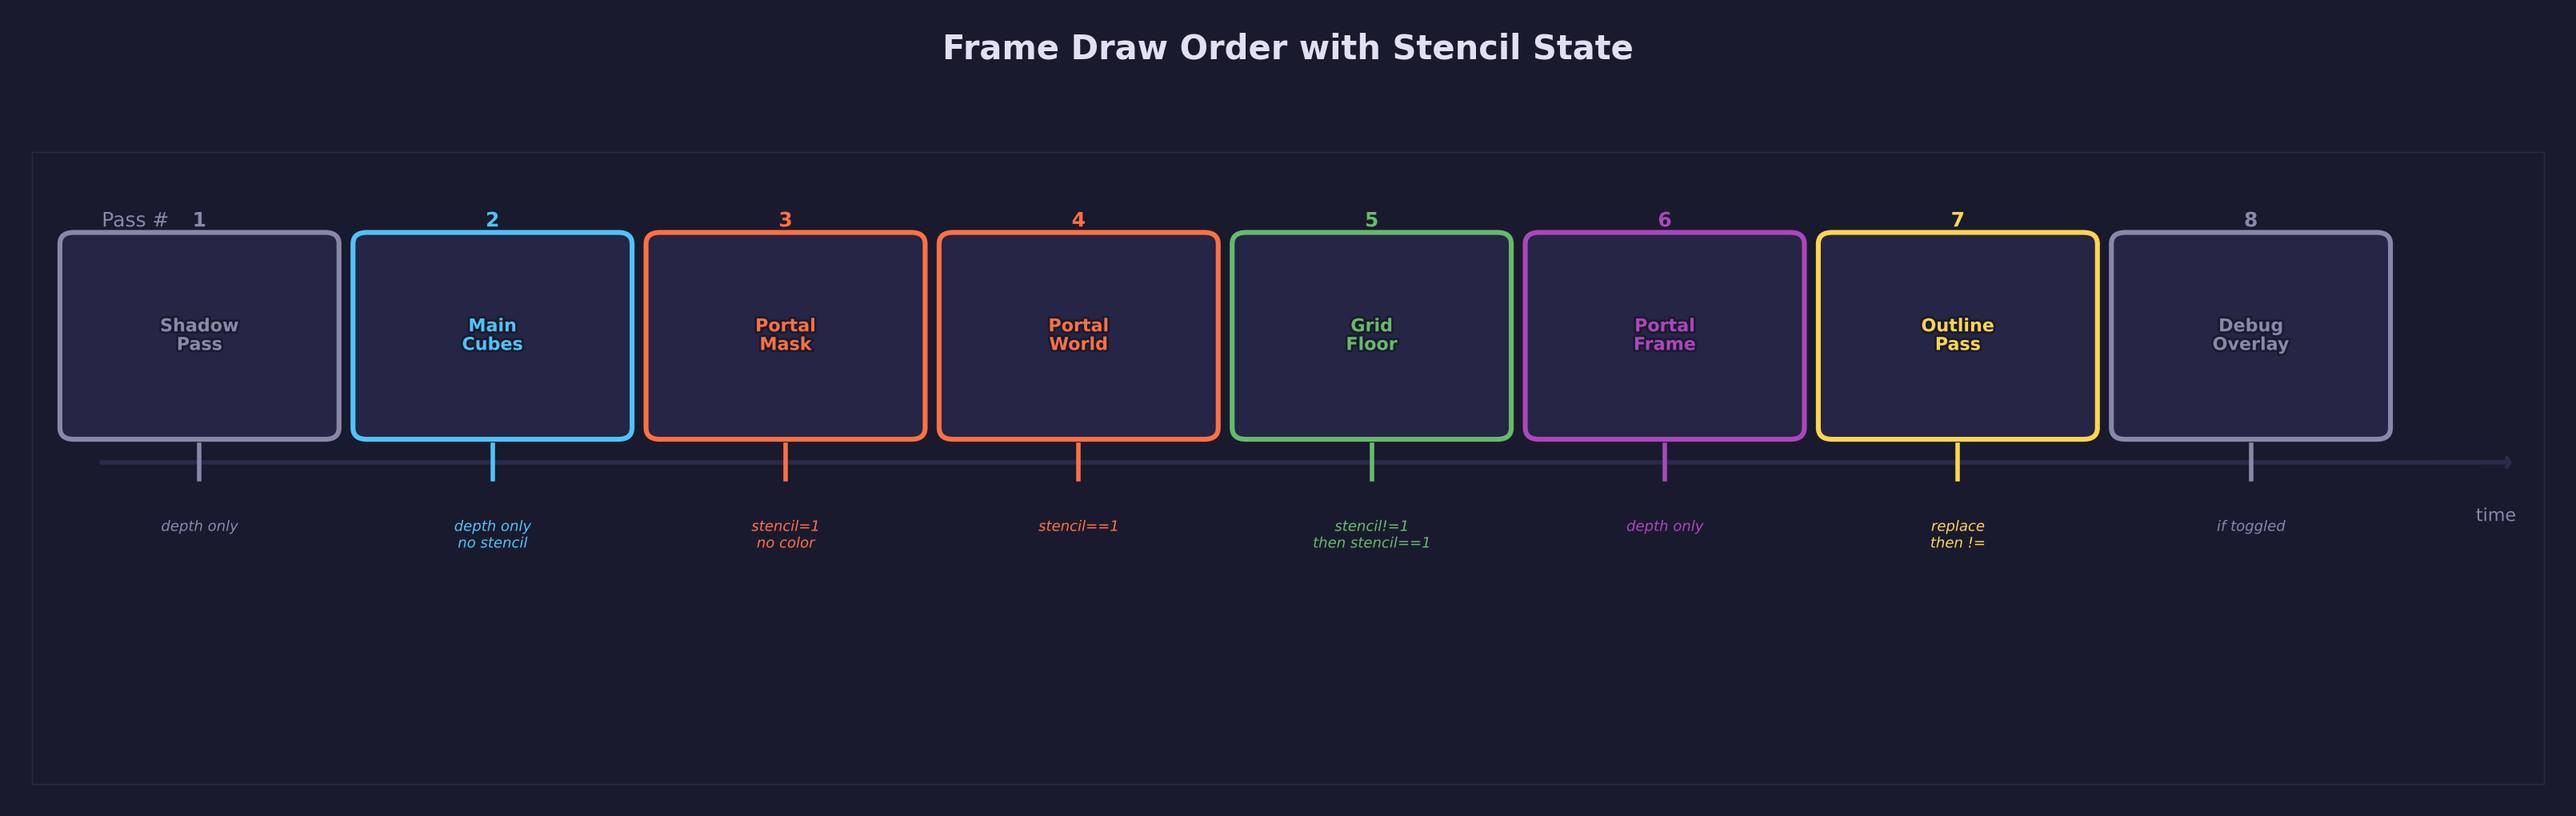
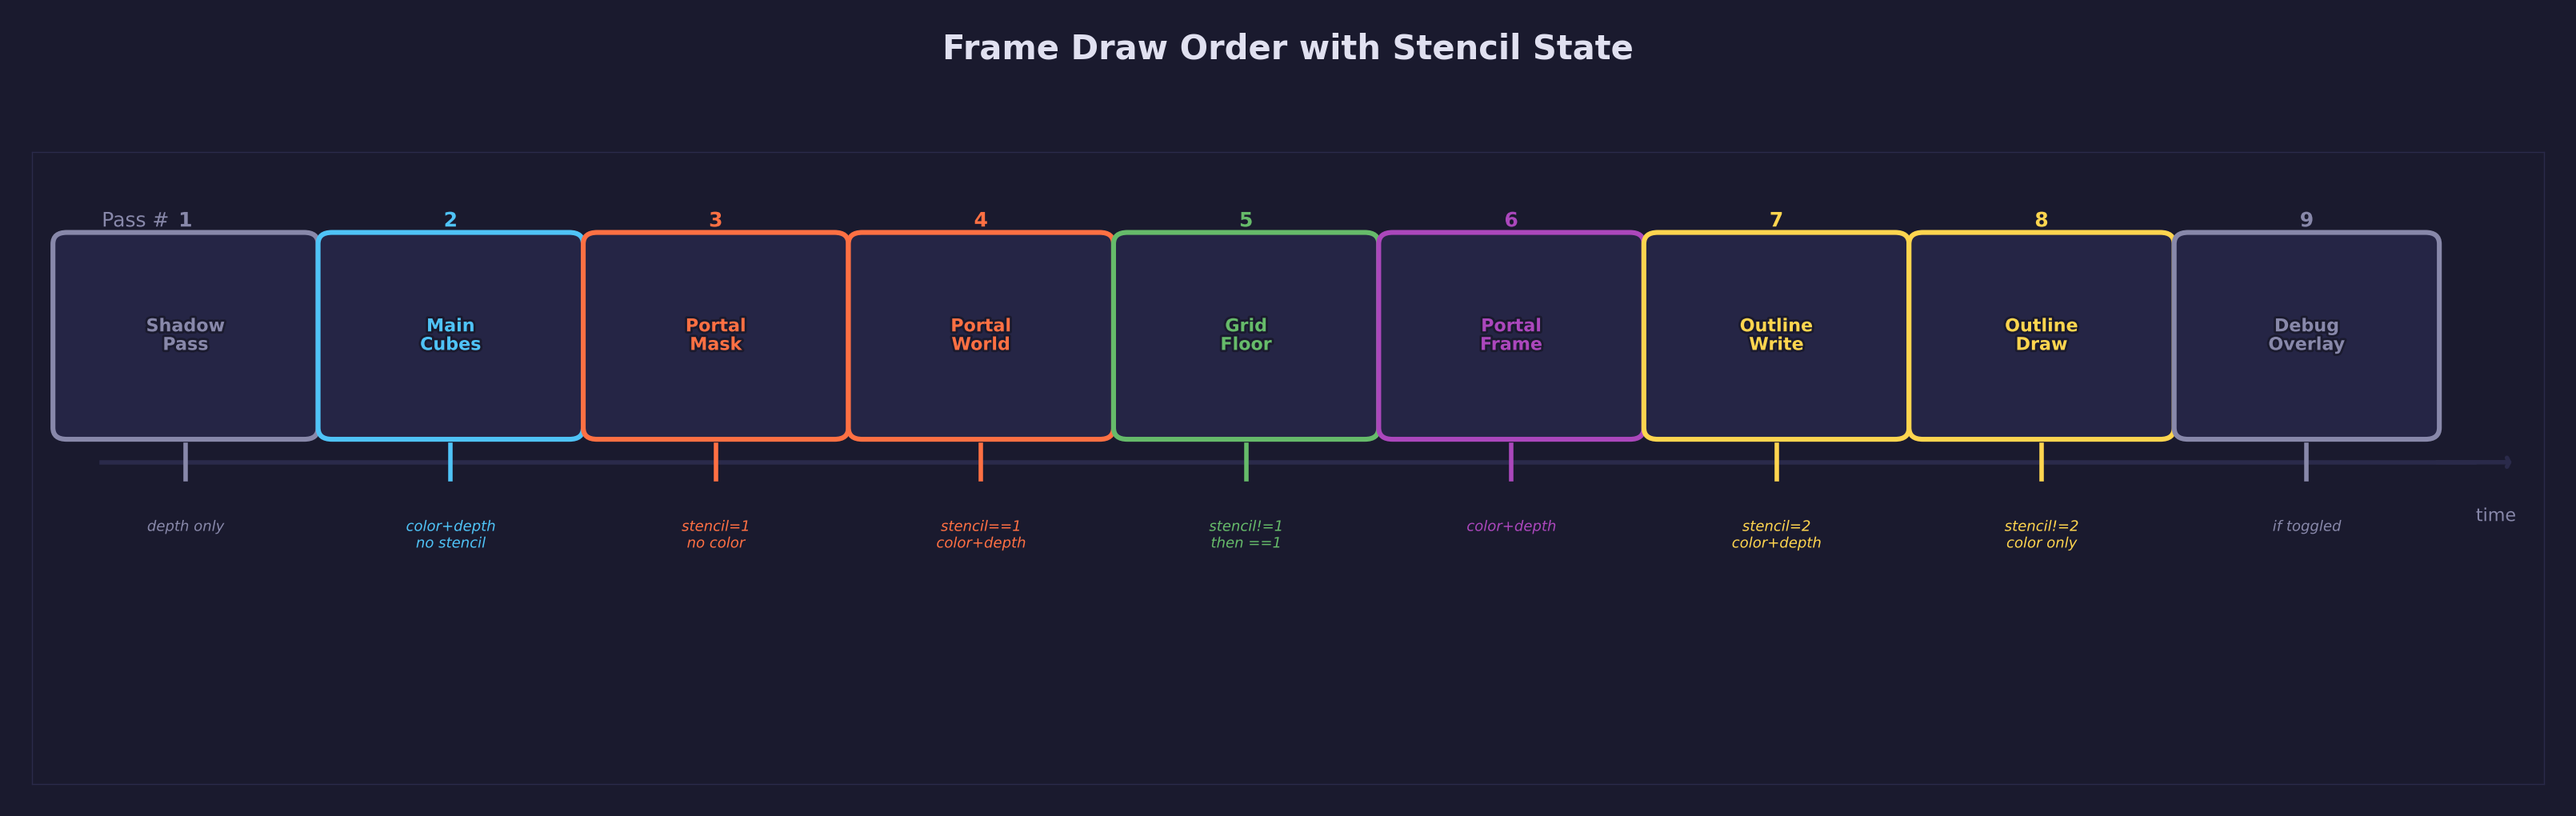
Address PR #179 round 3: diagram labels, README snippets
- Diagram: Split outline into Write+Draw passes, label all passes
  with color/depth/stencil operations accurately, adjust spacing
- README: Add OUTLINE_SCALE define to snippet; add color_write_mask=0
  to mask snippet; remove backslash escaping from enum names; keep
  LaTeX COMPARE_OP split for math block checker compliance

diff --git a/scripts/forge_diagrams/gpu_diagrams.py b/scripts/forge_diagrams/gpu_diagrams.py
@@ -17097,17 +17097,18 @@ def diagram_draw_order_stencil():
     )
 
     passes = [
-        ("Shadow\nPass", STYLE["text_dim"], "depth only", 1.2),
-        ("Main\nCubes", STYLE["accent1"], "depth only\nno stencil", 3.3),
-        ("Portal\nMask", STYLE["accent2"], "stencil=1\nno color", 5.4),
-        ("Portal\nWorld", STYLE["accent2"], "stencil==1", 7.5),
-        ("Grid\nFloor", STYLE["accent3"], "stencil!=1\nthen stencil==1", 9.6),
-        ("Portal\nFrame", STYLE["accent4"], "depth only", 11.7),
-        ("Outline\nPass", STYLE["warn"], "replace\nthen !=", 13.8),
-        ("Debug\nOverlay", STYLE["text_dim"], "if toggled", 15.9),
+        ("Shadow\nPass", STYLE["text_dim"], "depth only", 1.1),
+        ("Main\nCubes", STYLE["accent1"], "color+depth\nno stencil", 3.0),
+        ("Portal\nMask", STYLE["accent2"], "stencil=1\nno color", 4.9),
+        ("Portal\nWorld", STYLE["accent2"], "stencil==1\ncolor+depth", 6.8),
+        ("Grid\nFloor", STYLE["accent3"], "stencil!=1\nthen ==1", 8.7),
+        ("Portal\nFrame", STYLE["accent4"], "color+depth", 10.6),
+        ("Outline\nWrite", STYLE["warn"], "stencil=2\ncolor+depth", 12.5),
+        ("Outline\nDraw", STYLE["warn"], "stencil!=2\ncolor only", 14.4),
+        ("Debug\nOverlay", STYLE["text_dim"], "if toggled", 16.3),
     ]
 
-    box_w = 1.8
+    box_w = 1.7
     box_h = 1.6
     for label, color, annotation, x in passes:
         rect = FancyBboxPatch(

diff --git a/lessons/gpu/34-stencil-testing/README.md b/lessons/gpu/34-stencil-testing/README.md
@@ -90,8 +90,8 @@ $$
 
 where `buffer_value` is the current stencil value at this pixel, `reference`
 is set per draw call, and `COMPARE_OP` is one of the eight comparison
-functions (NEVER, LESS, EQUAL, LESS\_OR\_EQUAL, GREATER, NOT\_EQUAL,
-GREATER\_OR\_EQUAL, ALWAYS).
+functions (NEVER, LESS, EQUAL, LESS_OR_EQUAL, GREATER, NOT_EQUAL,
+GREATER_OR_EQUAL, ALWAYS).
 
 Three outcomes determine what happens to the stencil buffer:
 
@@ -182,6 +182,7 @@ SDL_GPUStencilOpState mask_stencil = {
 pipeline_info.depth_stencil_state.enable_depth_test    = true;
 pipeline_info.depth_stencil_state.compare_op           = SDL_GPU_COMPAREOP_LESS_OR_EQUAL;
 pipeline_info.depth_stencil_state.enable_depth_write   = false;  /* don't pollute depth */
+color_target.blend_state.color_write_mask              = 0;      /* no color output */
 pipeline_info.depth_stencil_state.enable_stencil_test  = true;
 pipeline_info.depth_stencil_state.front_stencil_state  = mask_stencil;
 pipeline_info.depth_stencil_state.back_stencil_state   = mask_stencil;
@@ -225,8 +226,10 @@ the stencil write would be silently skipped — breaking the outline effect.
 Draw the same object again, scaled uniformly by 4% using `mat4_scale_uniform`:
 
 ```c
+#define OUTLINE_SCALE 1.04f
+
 /* Scale the model matrix to expand the silhouette */
-mat4 scale = mat4_scale_uniform(OUTLINE_SCALE); /* 1.04 */
+mat4 scale = mat4_scale_uniform(OUTLINE_SCALE);
 mat4 outline_model = mat4_multiply(object_model, scale);
 ```
 
